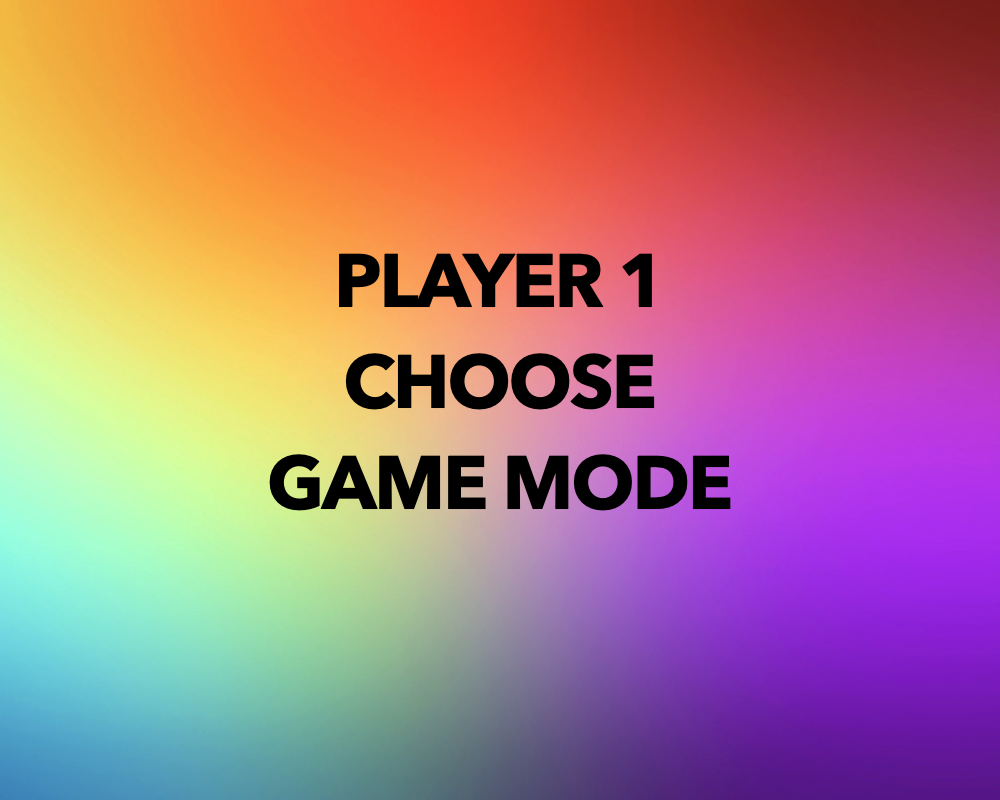
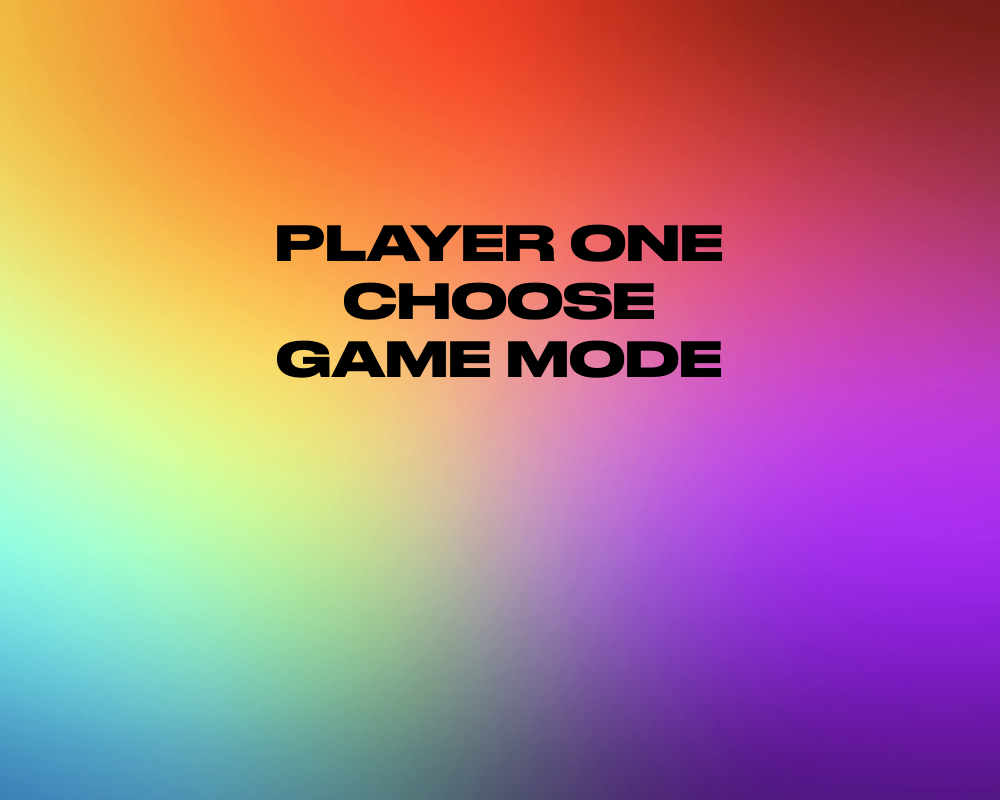
Same font on more places.

Changed region(s): [[0.279, 0.2812, 0.744, 0.5312], [0.248, 0.5625, 0.744, 0.6562]]

diff --git a/src/Main.java b/src/Main.java
@@ -5,10 +5,10 @@ import static javax.swing.UIManager.put;
 public class Main {
 
     public static void main(String[] args) {
-        put("OptionPane.background", Color.white);
-        put("Panel.background", Color.white);
-        put("OptionPane.messageFont", new Font("Avenir Next", Font.BOLD, 14));
-        put("OptionPane.buttonFont", new Font("Avenir Next", Font.PLAIN, 12));
+        put("OptionPane.background", Color.BLACK);
+        put("Panel.background", Color.WHITE);
+        put("OptionPane.messageFont", new Font("Druk Wide", Font.BOLD, 14));
+        put("OptionPane.buttonFont", new Font("Druk Wide", Font.PLAIN, 12));
         new GuiFrame();
     }
 }

diff --git a/src/GuiFrame.java b/src/GuiFrame.java
@@ -27,8 +27,12 @@ public class GuiFrame extends JFrame implements ActionListener {
     public void addMenu() {
         JMenuBar mb = new JMenuBar();
         JMenu menu = new JMenu("GAME MODE");
+        menu.setFont(new Font("Druk Wide", Font.BOLD, 12));
+        menu.setFont(new Font("Druk Wide", Font.BOLD, 12));
         i1 = new JMenuItem("ONE PLAYER");
         i2 = new JMenuItem("TWO PLAYERS");
+        i1.setFont(new Font("Druk Wide", Font.BOLD, 12));
+        i2.setFont(new Font("Druk Wide", Font.BOLD, 12));
         i1.addActionListener(this);
         i2.addActionListener(this);
         menu.add(i1);

diff --git a/src/Player.java b/src/Player.java
@@ -10,9 +10,9 @@ public class Player {
     }
 
     public void setName() {
-        name = JOptionPane.showInputDialog(null, "ENTER YOUR NAME, PLAYER " + team);
+        name = JOptionPane.showInputDialog(null, "PLAYER " + team +", " + "ENTER YOUR NAME");
         while (name == null || name.trim().equals("")) {
-            name = JOptionPane.showInputDialog(null, "ENTER VALID NAME, PLAYER " + team);
+            name = JOptionPane.showInputDialog(null, "PLAYER " + team +", " + "ENTER YOUR NAME");
         }
         name = name.trim();
     }

diff --git a/src/CustomJop.java b/src/CustomJop.java
@@ -16,7 +16,7 @@ public class CustomJop {
         JLabel label = new JLabel(new ImageIcon("scoreboard.png"));
         d.add (label,BorderLayout.CENTER);
         JTextArea score = new JTextArea();
-        score.setBounds(440,300,450,200);
+        score.setBounds(500,300,380,200);
         score.setOpaque(false);
         score.setWrapStyleWord(true);
         score.setLineWrap(true);
